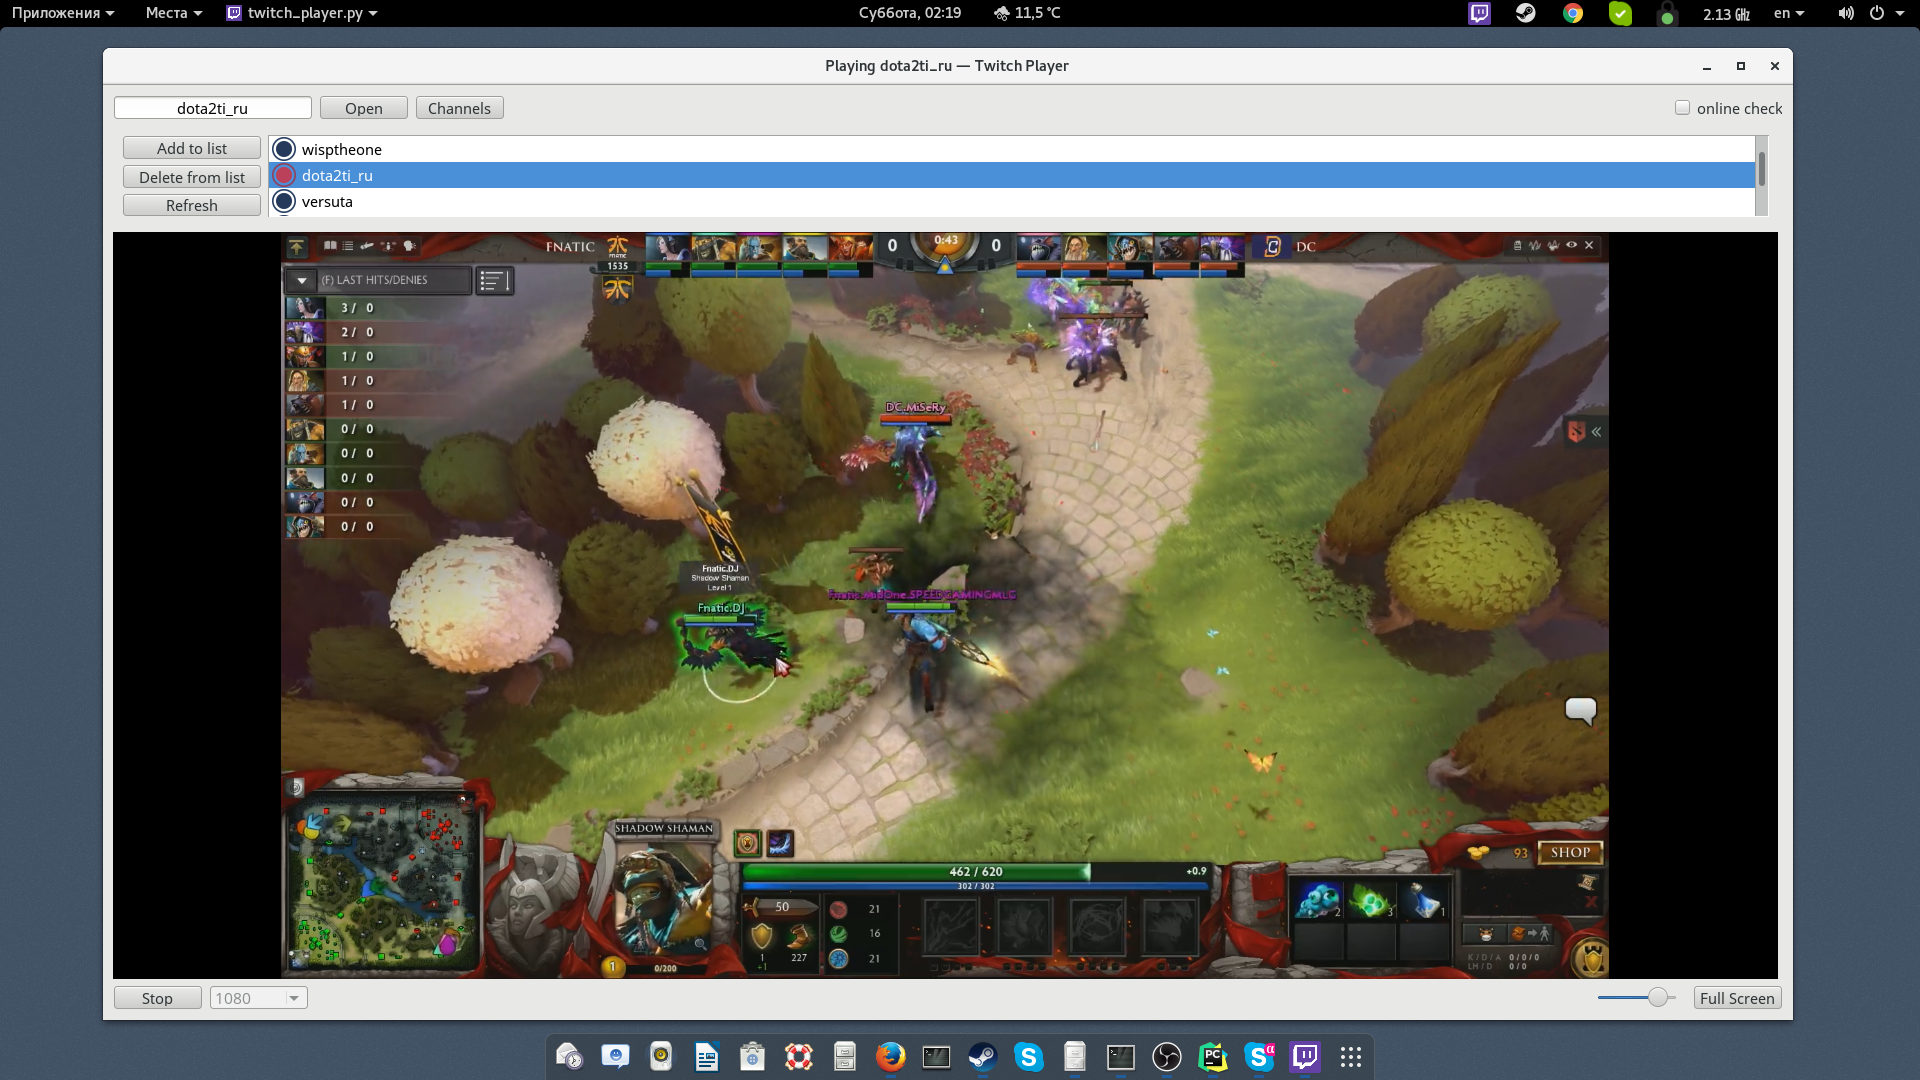
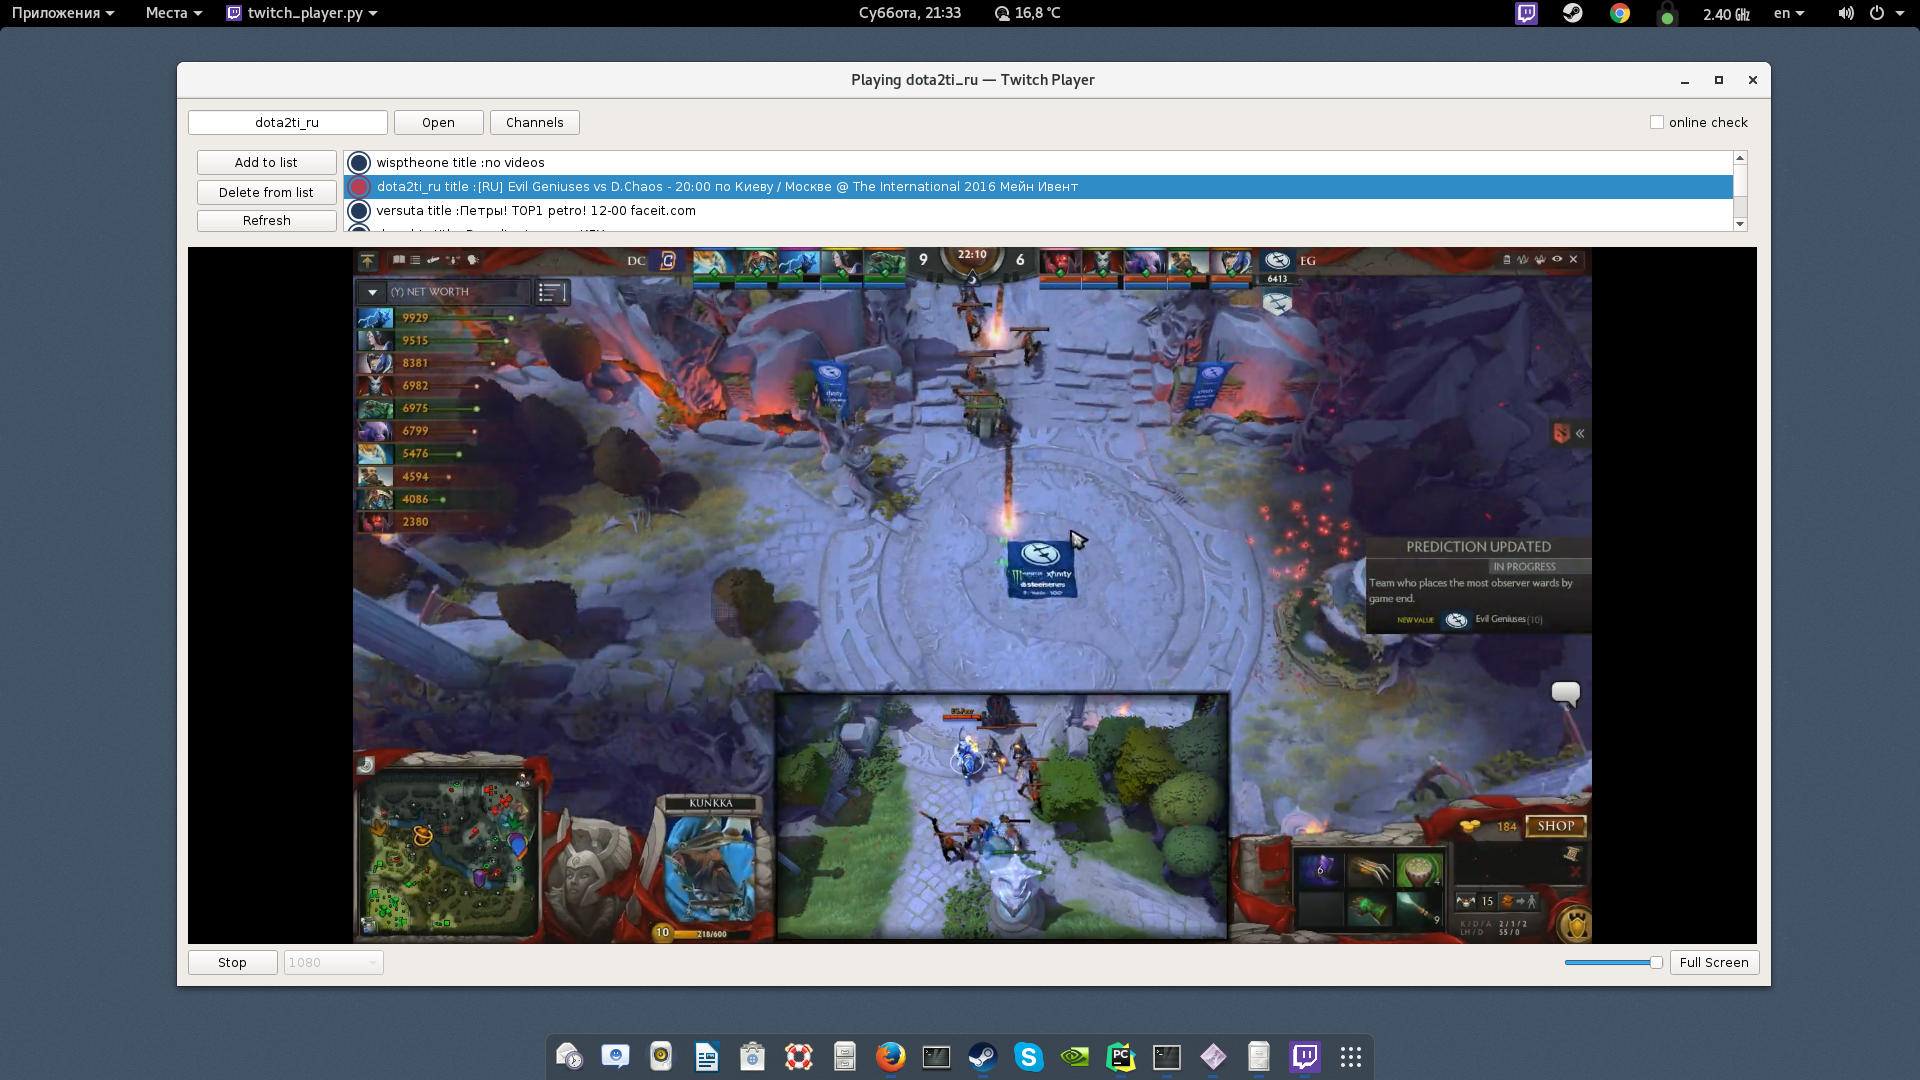
screen

diff --git a/twitch_api.py b/twitch_api.py
@@ -3,13 +3,17 @@ import requests
 import random
 import m3u8
 
+
 class TwitchData:               
     USHER_API = 'http://usher.twitch.tv/api/channel/hls/{channel}.m3u8?'+\
                 'player=twitchweb&token={token}&sig={sig}&$allow_audio_o'+\
                 'nly=true&allow_source=true&type=any&p={random}'
     TOKEN_API = 'http://api.twitch.tv/api/channels/{channel}/access_token'
+
+    VIDEOS_URI = 'https://api.twitch.tv/kraken/channels/{channel}/videos?broadcasts=true'
           
     def __init__(self, streamername):
+        # getting m3u playlists
         self.token_url = TwitchData.TOKEN_API.format(channel=streamername)
         self.token_data = requests.get(self.token_url)
         self.usher_url = TwitchData.USHER_API.format(
@@ -19,3 +23,10 @@ class TwitchData:
                                 random=random.randint(0,1E7))
         self.usher_data = requests.get(self.usher_url)
         self.m3u8 = m3u8.loads(self.usher_data.text)
+        # title
+        self.videos = requests.get(TwitchData.VIDEOS_URI.format(channel=streamername))
+        print(self.videos.json()['videos'])
+        if self.videos.json()['videos'] != []:
+            self.broadcast_title = self.videos.json()['videos'][0]['title']
+        else:
+            self.broadcast_title = 'no videos'

diff --git a/twitch_player.py b/twitch_player.py
@@ -414,7 +414,7 @@ class TwitchPlayer(QtWidgets.QWidget):
                 iconfile = self.online_icon
             else:
                 iconfile = self.offine_icon
-            item = QtGui.QStandardItem(iconfile, data[i])
+            item = QtGui.QStandardItem(iconfile, data[i] + ' title :' + online.broadcast_title)
             standardmodel.appendRow(item)
             self.tv_channels_list.setModel(standardmodel)
 
